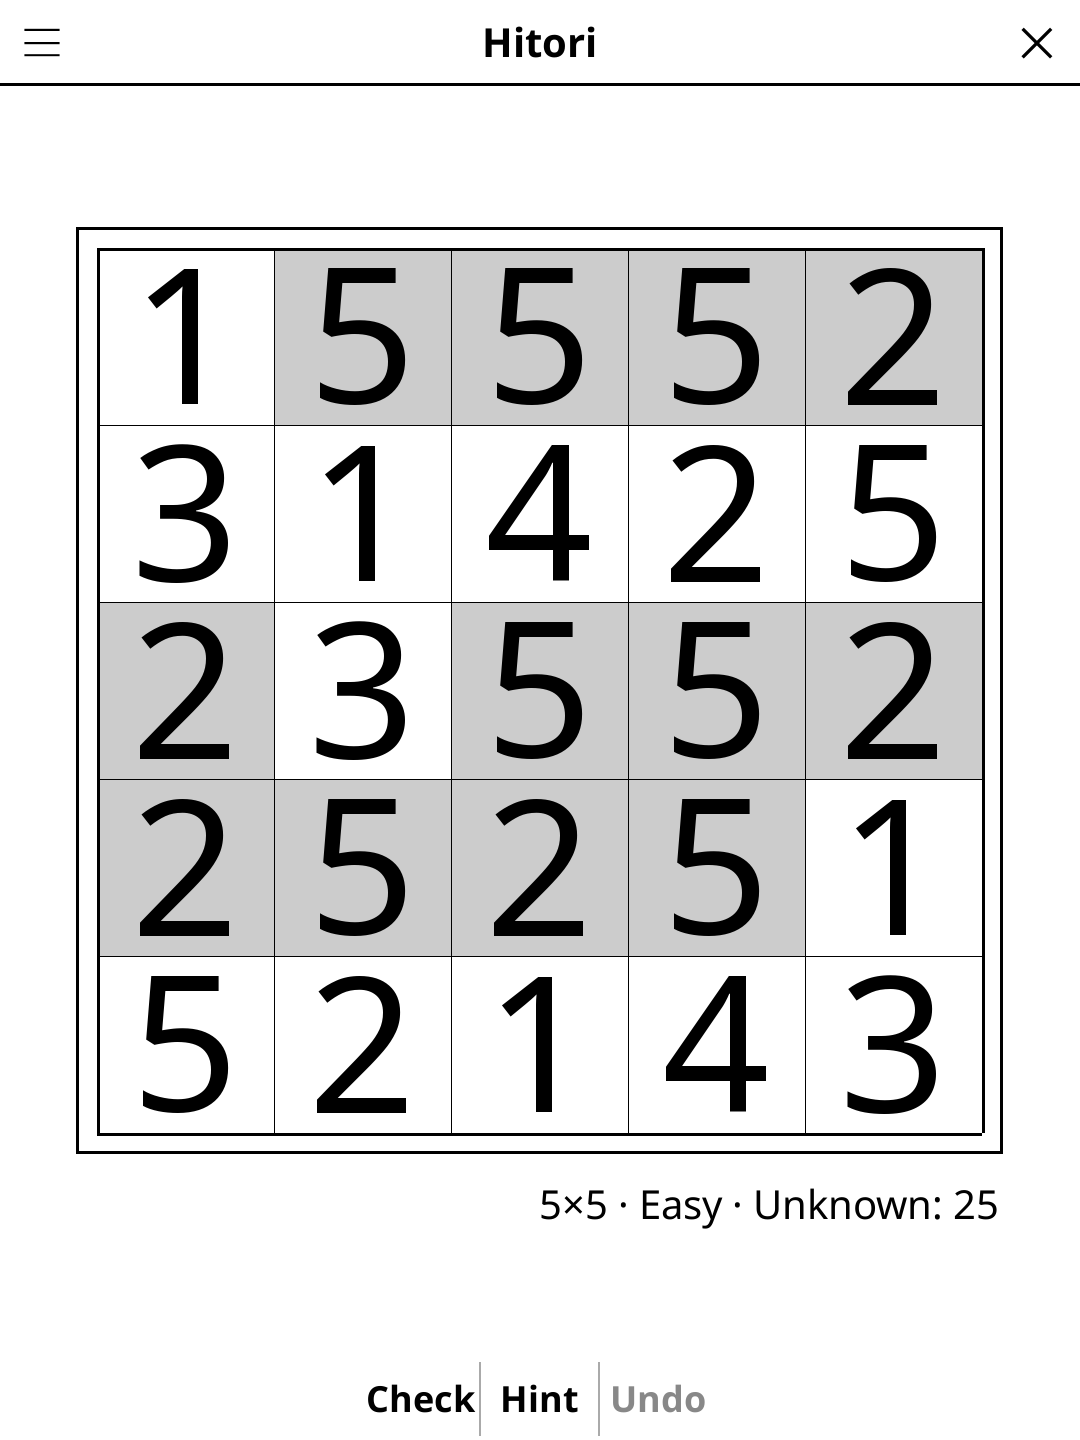
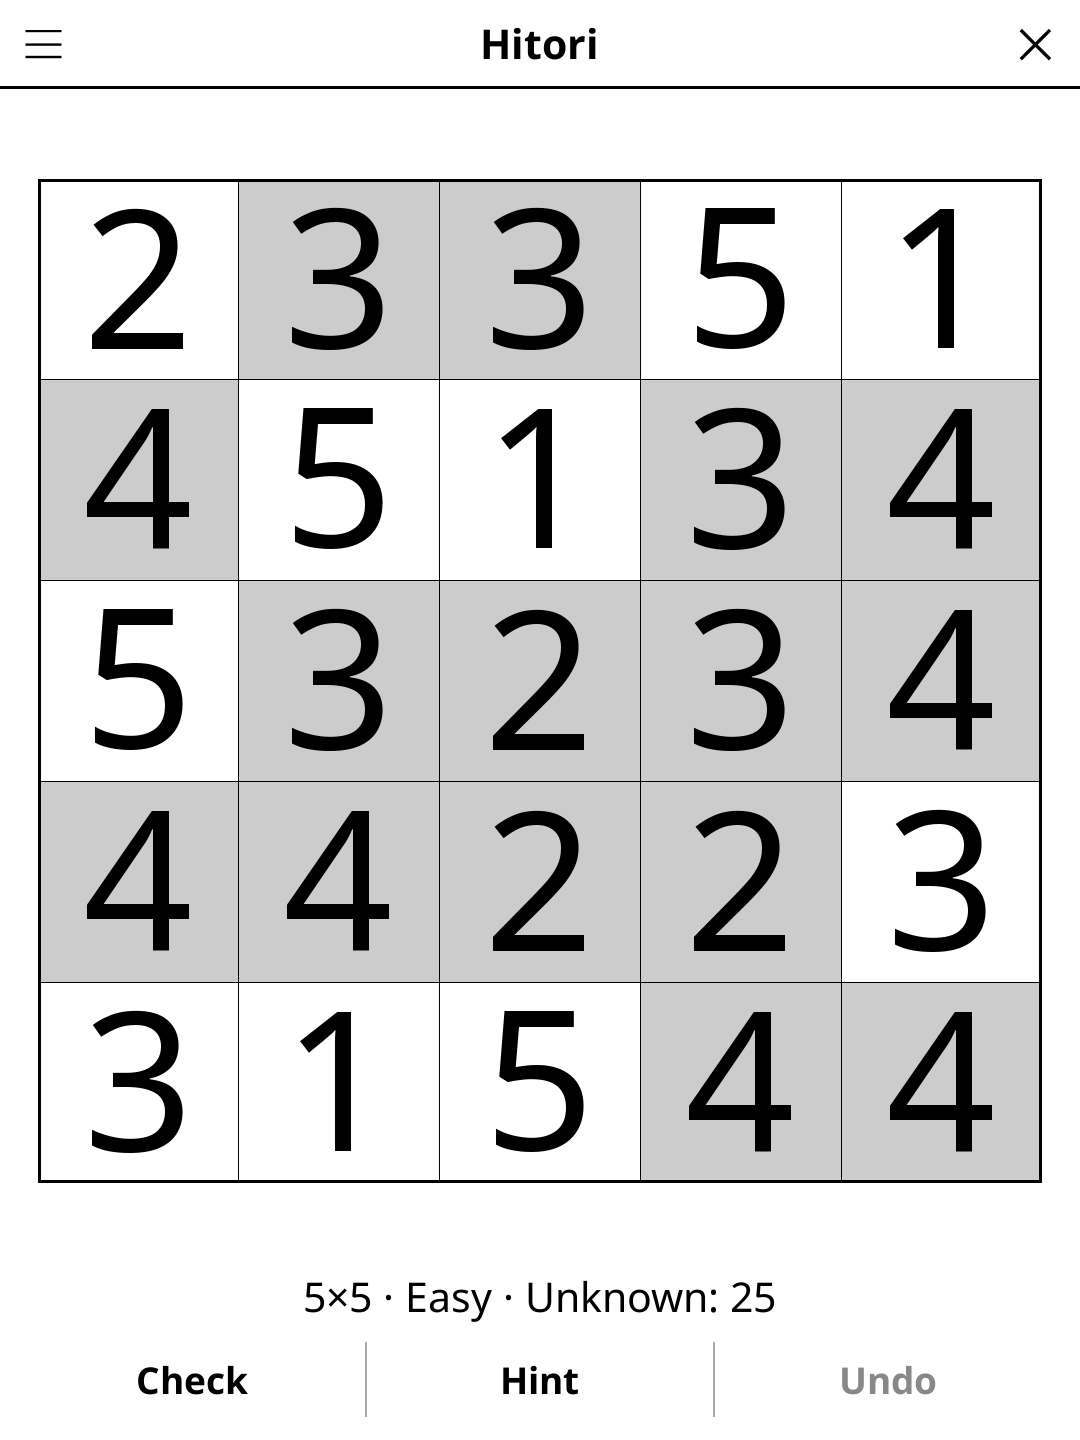
release: 1.3.0 -- redesigned screen, harmonised menu, New game at round end
Screen redesign (full-width action bar, unified pad, status line, larger
board), harmonised title-bar menu, and a "New game" button once the round
is over. See CHANGELOG.md.

diff --git a/CHANGELOG.md b/CHANGELOG.md
@@ -2,6 +2,33 @@
 
 All notable changes to this project will be documented in this file.
 
+## [1.3.0] - 2026-10-30
+
+### Added
+- "New game" once the puzzle is solved: the action bar shows it in place of
+  Check, Hint and Undo, so the next puzzle no longer needs the menu.
+
+### Changed
+- Redesigned play screen, in line with the other games: a full-width action
+  bar, a larger board that fills the available room, and one frame around
+  it. The status line reads "size · difficulty · Unknown: n" and wraps in
+  landscape instead of being cut off.
+- Cells marked white are circled -- a ring around the number, the usual
+  Hitori notation -- instead of a small ring in the corner that sat on top
+  of the digit once the number filled the cell.
+- Title-bar menu in the same order as every other game, with the current
+  values shown: "Size: …" (was "Grid: …"), "Difficulty: …" (was "Diff:
+  …"), and "Show solution" / "Hide solution" (was "Show result" / "Hide
+  result").
+- New README screenshot.
+
+### Fixed
+- Tapping Undo crashed the game ("attempt to call method 'undo'").
+- Using Hint wiped the saved game: the board was saved as nothing. And when
+  a hint fills the last cell, the status now shows the win message.
+- The board's closing grid line was drawn just past its right and bottom
+  edges.
+
 ## [1.2.2] - 2026-10-07
 
 ### Fixed

diff --git a/README.md b/README.md
@@ -42,8 +42,8 @@ numbers. The goal is to blacken some cells so that:
 | Undo last move | Tap **Undo** |
 | Check progress | Tap **Check** |
 | New game | Tap **New game** |
-| Change grid size | Tap **Grid** |
-| Change difficulty | Tap **Diff** |
+| Change grid size | Tap **Size** |
+| Change difficulty | Tap **Difficulty** |
 | Show rules | Tap **Rules** |
 
 ## Why e-ink friendly?
